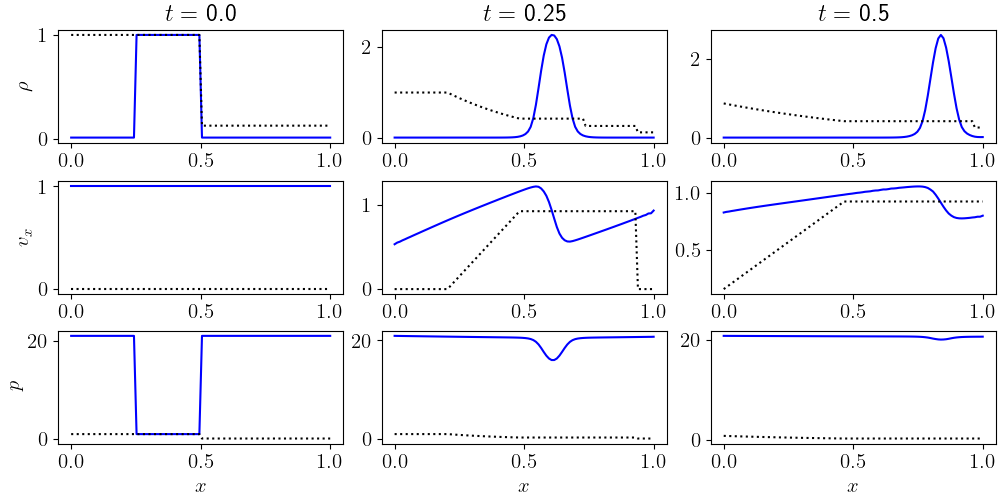
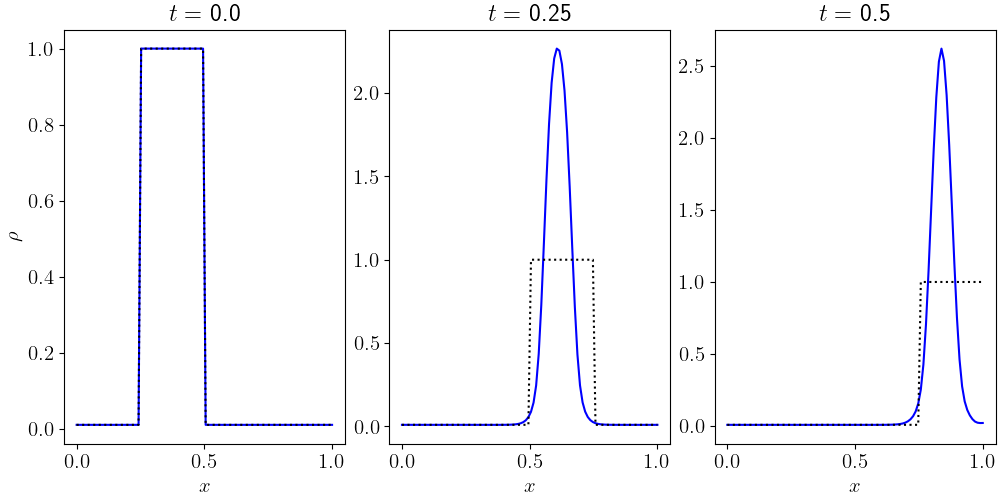
modifications

diff --git a/bin/plot_advection.py b/bin/plot_advection.py
@@ -26,6 +26,10 @@ from matplotlib.gridspec import GridSpec
 # data file name
 datafile = "advection.out"
 
+#parameters
+rho0 = 0.01
+rho1 = 1.0
+
 # return with an error if the file does not exist
 if not os.path.isfile(datafile):
     msg = "Error: file " + datafile + " does not exist"
@@ -64,128 +68,133 @@ with open(datafile, "r") as file:
             mz[it, ix] = line.pop(0)
             et[it, ix] = line.pop(0)
 
-    gamma = 1.4
-    u = mx / rho
-    p = (gamma - 1.0) * (et - (mx * mx + my * my + mz * mz) / (2.0 * rho))
+    # gamma = 1.4
+    # u = mx / rho
+    # p = (gamma - 1.0) * (et - (mx * mx + my * my + mz * mz) / (2.0 * rho))
 
 
 # utility routines for computing the analytical solution
-def fsecant(p4, p1, p5, rho1, rho5, gamma):
-    """
-    Utility routine for exact_Riemann function below
-    """
-    z = p4 / p5 - 1.0
-    c1 = np.sqrt(gamma * p1 / rho1)
-    c5 = np.sqrt(gamma * p5 / rho5)
-    gm1 = gamma - 1.0
-    gp1 = gamma + 1.0
-    g2 = 2.0 * gamma
-    fact = gm1 / g2 * (c5 / c1) * z / np.sqrt(1.0 + gp1 / g2 * z)
-    fact = (1.0 - fact) ** (g2 / gm1)
-    return p1 * fact - p4
-
-
-def exact_Riemann(t, x, xI):
-    """
-    Exact 1D Riemann problem solver (retrieves domain from EulerData structure),
-    based on Fortran code at http://cococubed.asu.edu/codes/riemann/exact_riemann.f
-
-    Inputs: (t,x) location for desired solution,
-            xI location of discontinuity at t=0,
-            gamma parameter for gas equation of state
-    Outputs: rho, u, p (density, velocity, and pressure at (t,x))
-    """
-
-    # begin solution
-    rho1 = 1.0
-    p1 = 1.0
-    u1 = 0.0
-    rho5 = 0.125
-    p5 = 0.1
-    u5 = 0.0
-
-    # solve for post-shock pressure by secant method initial guesses
-    p40 = p1
-    p41 = p5
-    f0 = fsecant(p40, p1, p5, rho1, rho5, gamma)
-    itmax = 50
-    eps = 1.0e-14
-    for iter in range(itmax):
-        f1 = fsecant(p41, p1, p5, rho1, rho5, gamma)
-        if f1 == f0:
-            break
-        p4 = p41 - (p41 - p40) * f1 / (f1 - f0)
-        if (np.abs(p4 - p41) / np.abs(p41)) < eps:
-            break
-        p40 = p41
-        p41 = p4
-        f0 = f1
-        if iter == itmax - 1:
-            raise ValueError("exact_Riemann iteration failed to converge")
-
-    # compute post-shock density and velocity
-    z = p4 / p5 - 1.0
-    c5 = np.sqrt(gamma * p5 / rho5)
-
-    gm1 = gamma - 1.0
-    gp1 = gamma + 1.0
-
-    fact = np.sqrt(1.0 + 0.5 * gp1 * z / gamma)
-
-    u4 = c5 * z / (gamma * fact)
-    rho4 = rho5 * (1.0 + 0.5 * gp1 * z / gamma) / (1.0 + 0.5 * gm1 * z / gamma)
-
-    # shock speed
-    w = c5 * fact
-
-    # compute values at foot of rarefaction
-    p3 = p4
-    u3 = u4
-    rho3 = rho1 * (p3 / p1) ** (1.0 / gamma)
-
-    # compute positions of waves
-    c1 = np.sqrt(gamma * p1 / rho1)
-    c3 = np.sqrt(gamma * p3 / rho3)
-
-    xsh = xI + w * t
-    xcd = xI + u3 * t
-    xft = xI + (u3 - c3) * t
-    xhd = xI - c1 * t
-
-    # compute solution as a function of position
-    if x < xhd:
-        rho = rho1
-        p = p1
-        u = u1
-    elif x < xft:
-        u = 2.0 / gp1 * (c1 + (x - xI) / t)
-        fact = 1.0 - 0.5 * gm1 * u / c1
-        rho = rho1 * fact ** (2.0 / gm1)
-        p = p1 * fact ** (2.0 * gamma / gm1)
-    elif x < xcd:
-        rho = rho3
-        p = p3
-        u = u3
-    elif x < xsh:
-        rho = rho4
-        p = p4
-        u = u4
+def advection_solution(t, x):
+    if (x >= 0.25+t) and (x<=0.5+t):
+        return rho1
     else:
-        rho = rho5
-        p = p5
-        u = u5
+        return rho0
 
-    # return with success
-    return rho, u, p
+
+# def fsecant(p4, p1, p5, rho1, rho5, gamma):
+#     """
+#     Utility routine for exact_Riemann function below
+#     """
+#     z = p4 / p5 - 1.0
+#     c1 = np.sqrt(gamma * p1 / rho1)
+#     c5 = np.sqrt(gamma * p5 / rho5)
+#     gm1 = gamma - 1.0
+#     gp1 = gamma + 1.0
+#     g2 = 2.0 * gamma
+#     fact = gm1 / g2 * (c5 / c1) * z / np.sqrt(1.0 + gp1 / g2 * z)
+#     fact = (1.0 - fact) ** (g2 / gm1)
+#     return p1 * fact - p4
+
+
+# def exact_Riemann(t, x, xI):
+#     """
+#     Exact 1D Riemann problem solver (retrieves domain from EulerData structure),
+#     based on Fortran code at http://cococubed.asu.edu/codes/riemann/exact_riemann.f
+
+#     Inputs: (t,x) location for desired solution,
+#             xI location of discontinuity at t=0,
+#             gamma parameter for gas equation of state
+#     Outputs: rho, u, p (density, velocity, and pressure at (t,x))
+#     """
+
+#     # begin solution
+#     rho1 = 1.0
+#     p1 = 1.0
+#     u1 = 1.0
+#     rho5 = 0.125 #
+#     p5 = 0.1 #
+#     u5 = 1.0
+
+#     # solve for post-shock pressure by secant method initial guesses
+#     p40 = p1
+#     p41 = p5
+#     f0 = fsecant(p40, p1, p5, rho1, rho5, gamma)
+#     itmax = 50
+#     eps = 1.0e-14
+#     for iter in range(itmax):
+#         f1 = fsecant(p41, p1, p5, rho1, rho5, gamma)
+#         if f1 == f0:
+#             break
+#         p4 = p41 - (p41 - p40) * f1 / (f1 - f0)
+#         if (np.abs(p4 - p41) / np.abs(p41)) < eps:
+#             break
+#         p40 = p41
+#         p41 = p4
+#         f0 = f1
+#         if iter == itmax - 1:
+#             raise ValueError("exact_Riemann iteration failed to converge")
+
+#     # compute post-shock density and velocity
+#     z = p4 / p5 - 1.0
+#     c5 = np.sqrt(gamma * p5 / rho5)
+
+#     gm1 = gamma - 1.0
+#     gp1 = gamma + 1.0
+
+#     fact = np.sqrt(1.0 + 0.5 * gp1 * z / gamma)
+
+#     u4 = c5 * z / (gamma * fact)
+#     rho4 = rho5 * (1.0 + 0.5 * gp1 * z / gamma) / (1.0 + 0.5 * gm1 * z / gamma)
+
+#     # shock speed
+#     w = c5 * fact
+
+#     # compute values at foot of rarefaction
+#     p3 = p4
+#     u3 = u4
+#     rho3 = rho1 * (p3 / p1) ** (1.0 / gamma)
+
+#     # compute positions of waves
+#     c1 = np.sqrt(gamma * p1 / rho1)
+#     c3 = np.sqrt(gamma * p3 / rho3)
+
+#     xsh = xI + w * t
+#     xcd = xI + u3 * t
+#     xft = xI + (u3 - c3) * t
+#     xhd = xI - c1 * t
+
+#     # compute solution as a function of position
+#     if x < xhd:
+#         rho = rho1
+#         p = p1
+#         u = u1
+#     elif x < xft:
+#         u = 2.0 / gp1 * (c1 + (x - xI) / t)
+#         fact = 1.0 - 0.5 * gm1 * u / c1
+#         rho = rho1 * fact ** (2.0 / gm1)
+#         p = p1 * fact ** (2.0 * gamma / gm1)
+#     elif x < xcd:
+#         rho = rho3
+#         p = p3
+#         u = u3
+#     elif x < xsh:
+#         rho = rho4
+#         p = p4
+#         u = u4
+#     else:
+#         rho = rho5
+#         p = p5
+#         u = u5
+
+#     # return with success
+#     return rho, u, p
 
 
 # generate analytical solutions over same mesh and times as loaded from data file
 rhotrue = np.zeros((nt, nx), dtype=float)
-utrue = np.zeros((nt, nx), dtype=float)
-ptrue = np.zeros((nt, nx), dtype=float)
 for it in range(nt):
     for ix in range(nx):
-        rhotrue[it, ix], utrue[it, ix], ptrue[it, ix] = exact_Riemann(t[it], x[ix], 0.5)
+        rhotrue[it, ix] = advection_solution(t[it], x[ix])
 
 #   plot defaults: increase default font size, increase plot width, enable LaTeX rendering
 plt.rc("font", size=15)
@@ -195,37 +204,28 @@ plt.rcParams["figure.constrained_layout.use"] = True
 
 #   subplots with time snapshots of the density, x-velocity, and pressure
 fig = plt.figure(figsize=(10, 5))
-gs = GridSpec(3, 3, figure=fig)
+gs = GridSpec(1, 3, figure=fig)
 ax00 = fig.add_subplot(gs[0, 0])  # left column
-ax10 = fig.add_subplot(gs[1, 0])
-ax20 = fig.add_subplot(gs[2, 0])
 ax01 = fig.add_subplot(gs[0, 1])  # middle column
-ax11 = fig.add_subplot(gs[1, 1])
-ax21 = fig.add_subplot(gs[2, 1])
 ax02 = fig.add_subplot(gs[0, 2])  # right column
-ax12 = fig.add_subplot(gs[1, 2])
-ax22 = fig.add_subplot(gs[2, 2])
 it = 0
+tval = repr(float(t[it])).zfill(3)
 ax00.plot(x, rho[it, :], "-b", x, rhotrue[it, :], ":k")
-ax10.plot(x, u[it, :], "-b", x, utrue[it, :], ":k")
-ax20.plot(x, p[it, :], "-b", x, ptrue[it, :], ":k")
-ax00.set_title(r"$t =$ " + repr(t[it]).zfill(3))
+ax00.set_title(r"$t =$ " + tval)
 ax00.set_ylabel(r"$\rho$")
-ax10.set_ylabel(r"$v_x$")
-ax20.set_ylabel(r"$p$")
-ax20.set_xlabel(r"$x$")
+# ax10.set_ylabel(r"$v_x$")
+# ax20.set_ylabel(r"$p$")
+ax00.set_xlabel(r"$x$")
 it = nt // 2
+tval = repr(float(t[it])).zfill(3)
 ax01.plot(x, rho[it, :], "-b", x, rhotrue[it, :], ":k")
-ax11.plot(x, u[it, :], "-b", x, utrue[it, :], ":k")
-ax21.plot(x, p[it, :], "-b", x, ptrue[it, :], ":k")
-ax01.set_title(r"$t =$ " + repr(t[it]).zfill(3))
-ax21.set_xlabel(r"$x$")
+ax01.set_title(r"$t =$ " + tval)
+ax01.set_xlabel(r"$x$")
 it = nt - 1
+tval = repr(float(t[it])).zfill(3)
 ax02.plot(x, rho[it, :], "-b", x, rhotrue[it, :], ":k")
-ax12.plot(x, u[it, :], "-b", x, utrue[it, :], ":k")
-ax22.plot(x, p[it, :], "-b", x, ptrue[it, :], ":k")
-ax02.set_title(r"$t =$ " + repr(t[it]).zfill(3))
-ax22.set_xlabel(r"$x$")
+ax02.set_title(r"$t =$ " + tval)
+ax02.set_xlabel(r"$x$")
 plt.savefig("advection_frames.png")
 
 plt.show()

diff --git a/linear_advection/plot_advection.py b/linear_advection/plot_advection.py
@@ -1,7 +1,6 @@
 #!/usr/bin/env python3
 # ------------------------------------------------------------------------------
 # Programmer(s):  Daniel R. Reynolds @ SMU
-# Modified by Sylvia Amihere @ SMU
 # ------------------------------------------------------------------------------
 # SUNDIALS Copyright Start
 # Copyright (c) 2002-2024, Lawrence Livermore National Security
@@ -99,10 +98,10 @@ def exact_Riemann(t, x, xI):
     # begin solution
     rho1 = 1.0
     p1 = 1.0
-    u1 = 0.0
+    u1 = 1.0
     rho5 = 0.125
-    p5 = 0.1
-    u5 = 0.0
+    p5 = 1.0
+    u5 = 1.0
 
     # solve for post-shock pressure by secant method initial guesses
     p40 = p1
@@ -206,25 +205,28 @@ ax02 = fig.add_subplot(gs[0, 2])  # right column
 ax12 = fig.add_subplot(gs[1, 2])
 ax22 = fig.add_subplot(gs[2, 2])
 it = 0
+tval = repr(float(t[it])).zfill(3)
 ax00.plot(x, rho[it, :], "-b", x, rhotrue[it, :], ":k")
 ax10.plot(x, u[it, :], "-b", x, utrue[it, :], ":k")
 ax20.plot(x, p[it, :], "-b", x, ptrue[it, :], ":k")
-ax00.set_title(r"$t =$ " + repr(t[it]).zfill(3))
+ax00.set_title(r"$t =$ " + tval)
 ax00.set_ylabel(r"$\rho$")
 ax10.set_ylabel(r"$v_x$")
 ax20.set_ylabel(r"$p$")
 ax20.set_xlabel(r"$x$")
 it = nt // 2
+tval = repr(float(t[it])).zfill(3)
 ax01.plot(x, rho[it, :], "-b", x, rhotrue[it, :], ":k")
 ax11.plot(x, u[it, :], "-b", x, utrue[it, :], ":k")
 ax21.plot(x, p[it, :], "-b", x, ptrue[it, :], ":k")
-ax01.set_title(r"$t =$ " + repr(t[it]).zfill(3))
+ax01.set_title(r"$t =$ " + tval)
 ax21.set_xlabel(r"$x$")
 it = nt - 1
+tval = repr(float(t[it])).zfill(3)
 ax02.plot(x, rho[it, :], "-b", x, rhotrue[it, :], ":k")
 ax12.plot(x, u[it, :], "-b", x, utrue[it, :], ":k")
 ax22.plot(x, p[it, :], "-b", x, ptrue[it, :], ":k")
-ax02.set_title(r"$t =$ " + repr(t[it]).zfill(3))
+ax02.set_title(r"$t =$ " + tval)
 ax22.set_xlabel(r"$x$")
 plt.savefig("advection_frames.png")
 
